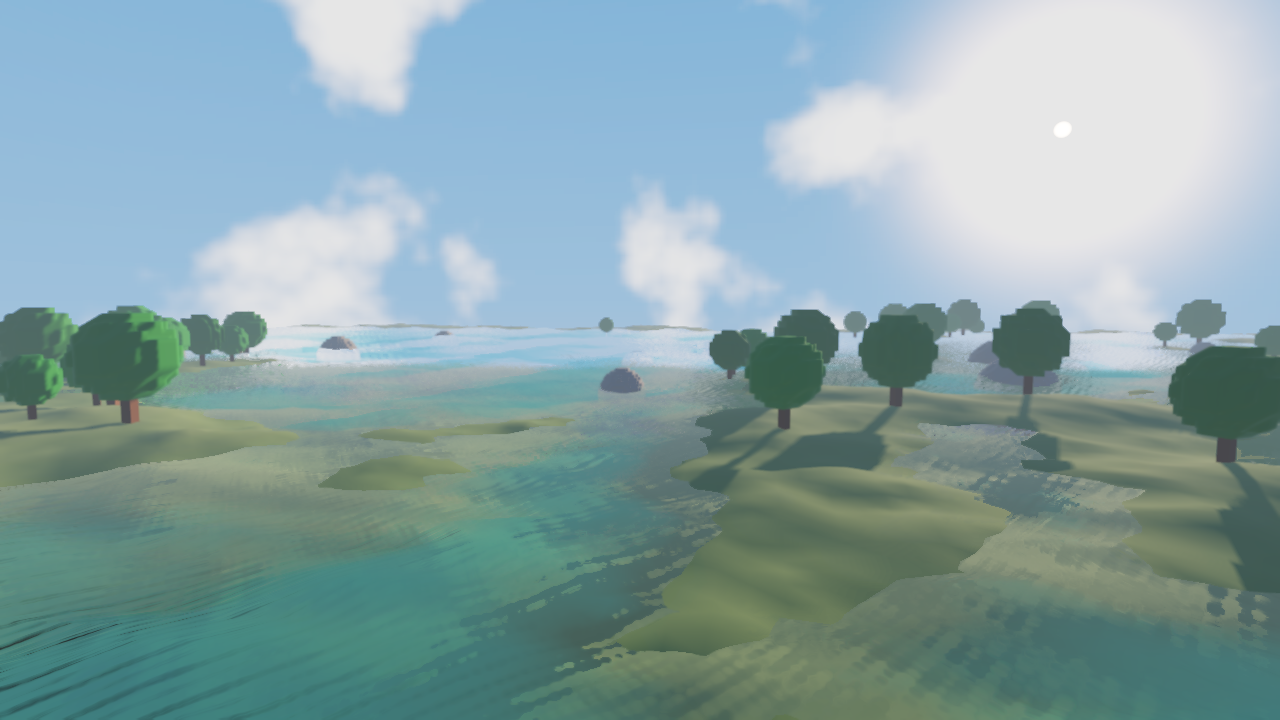
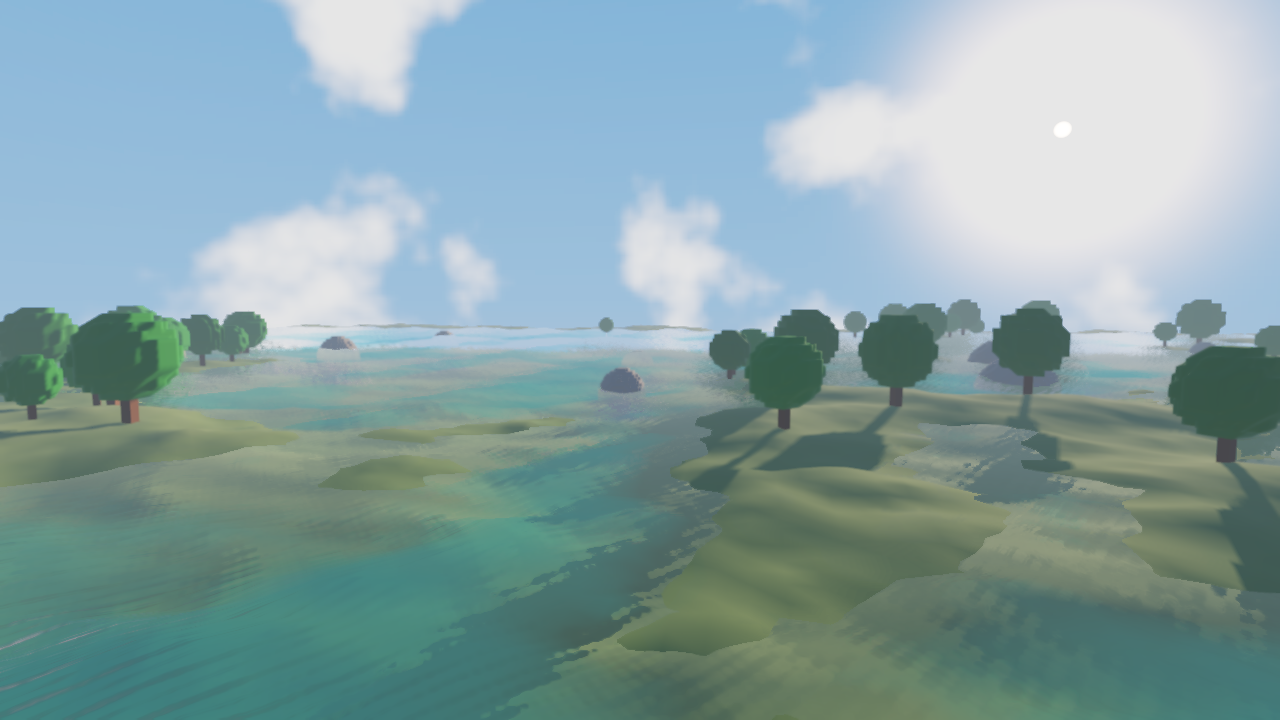
G13 water: sharper surface reflection + less foam
- kWaterFrag: add a crisp sky-cubemap mirror term on top of the half-res
  planar reflection: sample uSkyCube by the reflected ray (fallback: sky
  gradient) plus a sun disk, weighted by fresnel*0.5; lower reflection
  distortion defaults (0.12->0.05, refraction 0.06->0.035) so the
  mirror stays sharp
- drawWater: bind the sky cubemap on kTextureUnitSkyCube and set
  uSkyCube/uUseSkyCube/uSkyTop/uSkyBottom/uSunCos
- foam tuning: foamCrestStart 0.72->0.80, foamCrestSoftness 0.18->0.10,
  shoreFoamWidth 1.2->0.8, foamStrength 1.0->0.85 (example overrides removed)
- re-rendered docs/images/g13_water_*.png; tutorials + CHANGELOG updated

diff --git a/src/render/deferred_glsl.hpp b/src/render/deferred_glsl.hpp
@@ -1498,6 +1498,11 @@ in vec2 vLocalXZ;
 uniform sampler2D uSceneHdr; // unit 0: lighting output without the water (refraction)
 uniform sampler2D uGDepth;   // unit 1: G-buffer depth (occlusion + shore foam)
 uniform sampler2D uReflTex;  // unit 2: planar reflection target
+uniform samplerCube uSkyCube; // unit kTextureUnitSkyCube (16): sharp sky mirror on top
+uniform int uUseSkyCube;
+uniform vec3 uSkyTop;
+uniform vec3 uSkyBottom;
+uniform float uSunCos;
 uniform mat4 uInvViewProj;
 uniform mat4 uViewProj;      // camera viewProj (un-jittered): water fragment -> depth value
 uniform vec3 uCamPos;
@@ -1557,9 +1562,17 @@ void main() {
     float foam = clamp(max(shoreFoam, crestFoam) * uFoamStrength, 0.0, 1.0);
     // fresnel (dielectric)
     float fres = uFresnelF0 + (1.0 - uFresnelF0) * pow(1.0 - max(dot(N, V), 0.0), 5.0);
-    // planar reflection: the mirrored camera shares the projection, so screen uv maps 1:1
+    vec3 R = reflect(-V, N);
+    // surface reflection: planar reflection (mirrored camera shares the projection, so the
+    // screen uv maps 1:1, only distorted by the wave normal) ...
     vec2 reflUV = clamp(uv + N.xz * uDistortion, vec2(0.001), vec2(0.999));
     vec3 refl = texture(uReflTex, reflUV).rgb * uReflectionStrength;
+    // ... plus a sharp sky mirror sampled by the reflected ray (the planar target is
+    // half-res and distorted, the cubemap gives the crisp sky/sun reflection on top)
+    vec3 skyRefl = (uUseSkyCube == 1) ? texture(uSkyCube, R).rgb
+                                      : mix(uSkyBottom, uSkyTop, clamp(R.y, 0.0, 1.0));
+    skyRefl += uSunColor * smoothstep(uSunCos, 1.0, dot(R, uSunDir));
+    refl += skyRefl * clamp(fres, 0.0, 1.0) * 0.5;
     // refraction: scene HDR distorted by the normal, absorbed with depth, tinted by the body color
     vec2 refrUV = clamp(uv + N.xz * uRefractionDistortion, vec2(0.001), vec2(0.999));
     vec3 refr = texture(uSceneHdr, refrUV).rgb;
@@ -1568,7 +1581,6 @@ void main() {
     vec3 refrCol = refr * absorb + body * (1.0 - absorb) * 0.8;
     vec3 col = mix(refrCol, refl, clamp(fres, 0.0, 1.0));
     // sun glint on the wave normals
-    vec3 R = reflect(-V, N);
     col += uSunColor * pow(max(dot(R, uSunDir), 0.0), uGlintPower) * 2.0;
     // foam on top ("Gicht" at the crests + shore foam)
     col = mix(col, uFoamColor, foam);

diff --git a/include/fuhglgraphics/water/water_surface.hpp b/include/fuhglgraphics/water/water_surface.hpp
@@ -89,12 +89,12 @@ public:
     fuhgl::math::Vec3 foamColor{0.92f, 0.96f, 1.0f};         ///< crest/shore foam ("Gicht")
     float fresnelF0 = 0.02f;          ///< dielectric fresnel reflectance at normal incidence
     float reflectionStrength = 1.f;   ///< planar-reflection intensity (0 = off)
-    float distortion = 0.12f;         ///< reflection UV offset per unit of normal xz
-    float refractionDistortion = 0.06f; ///< refraction UV offset per unit of normal xz
-    float foamCrestStart = 0.72f;     ///< crest foam starts at this fraction of maxWaveHeight
-    float foamCrestSoftness = 0.18f;  ///< smooth width of the crest-foam ramp
-    float shoreFoamWidth = 1.2f;      ///< water depth (world units) over which shore foam fades in
-    float foamStrength = 1.f;         ///< overall foam intensity (0 = off)
+    float distortion = 0.05f;         ///< reflection UV offset per unit of normal xz (lower = sharper mirror)
+    float refractionDistortion = 0.035f; ///< refraction UV offset per unit of normal xz
+    float foamCrestStart = 0.80f;     ///< crest foam starts at this fraction of maxWaveHeight
+    float foamCrestSoftness = 0.10f;  ///< smooth width of the crest-foam ramp
+    float shoreFoamWidth = 0.8f;      ///< water depth (world units) over which shore foam fades in
+    float foamStrength = 0.85f;       ///< overall foam intensity (0 = off)
     float glintPower = 512.f;         ///< sun-glint specular exponent
     float detailNormalScale = 2.2f;   ///< strength of the procedural ripple detail normal
 

diff --git a/src/render/deferred_renderer.cpp b/src/render/deferred_renderer.cpp
@@ -941,6 +941,9 @@ void DeferredRenderer::drawWater(fuhgl::render::RenderGraph::PassContext& ctx) {
     const water::WaterSurface& w = *curWater_;
     fuhgl::gl::activeTexture(fuhgl::gl::GL_TEXTURE0 + 2);
     f.glBindTexture(fuhgl::gl::GL_TEXTURE_2D, im.reflColor.id());
+    // sky cubemap for the sharp sky-mirror term in the water shader (unit kTextureUnitSkyCube)
+    fuhgl::gl::activeTexture(fuhgl::gl::GL_TEXTURE0 + kTextureUnitSkyCube);
+    f.glBindTexture(fuhgl::gl::GL_TEXTURE_CUBE_MAP, skyCube_ ? skyCube_->id() : im.dummyCube.id());
     fuhgl::gl::disable(fuhgl::gl::Cap::DepthTest);
     fuhgl::gl::disable(fuhgl::gl::Cap::Blend);
     fuhgl::gl::enable(fuhgl::gl::Cap::CullFace);
@@ -951,6 +954,11 @@ void DeferredRenderer::drawWater(fuhgl::render::RenderGraph::PassContext& ctx) {
     p.setUniform(p.uniformLocation("uSceneHdr"), 0);
     p.setUniform(p.uniformLocation("uGDepth"), 1);
     p.setUniform(p.uniformLocation("uReflTex"), 2);
+    p.setUniform(p.uniformLocation("uSkyCube"), kTextureUnitSkyCube);
+    p.setUniform(p.uniformLocation("uUseSkyCube"), skyCube_ ? 1 : 0);
+    p.setUniform("uSkyTop", skyTop);
+    p.setUniform("uSkyBottom", skyBottom);
+    p.setUniform("uSunCos", s.sunCos);
     p.setUniform("uModel", waterModel_);
     // one uViewProj for VS (position) and FS (depth test): the G-buffer was rendered with
     // the same jittered viewProj, so the depth comparison uses the same quantization

diff --git a/examples/water_screenshot/main.cpp b/examples/water_screenshot/main.cpp
@@ -228,8 +228,6 @@ int main(int argc, char** argv) {
     wc.surface.time = 0.f;
     wc.surface.reflectionStrength = args.reflection ? 0.9f : 0.f;
     wc.surface.foamStrength = args.foam ? 1.f : 0.f;
-    wc.surface.shoreFoamWidth = 1.2f;
-    wc.surface.foamCrestStart = 0.55f;
     wc.surface.deepColor = {0.004f, 0.05f, 0.11f};
     wc.surface.shallowColor = {0.06f, 0.30f, 0.38f};
 

diff --git a/CHANGELOG.md b/CHANGELOG.md
@@ -341,6 +341,15 @@ All notable changes to FuhGlGraphics are documented here. The format follows
   Tutorial: `docs/en/tutorials/g13_water.md` + German translation. Requirement entry G13
   in [docs/REQUIREMENTS.md](docs/REQUIREMENTS.md).
 
+### Changed
+
+- **G13 water tuning**: sharper surface reflection — the water shader now adds a crisp
+  sky-cubemap mirror term (sampled by the reflected ray, plus the sun disk, weighted by the
+  fresnel) on top of the half-res planar reflection, and the reflection distortion defaults
+  dropped (`distortion` 0.12 → 0.05, `refractionDistortion` 0.06 → 0.035). Less foam:
+  `foamCrestStart` 0.72 → 0.80, `foamCrestSoftness` 0.18 → 0.10, `shoreFoamWidth` 1.2 → 0.8,
+  `foamStrength` 1.0 → 0.85. Reference images `docs/images/g13_water_*.png` re-rendered.
+
 ### Planned
 
 - **G12 — asset creator Qt tool** — design agreed, implementation in phases after review:

diff --git a/docs/de/tutorials/g13_water.md b/docs/de/tutorials/g13_water.md
@@ -51,8 +51,8 @@ wc.surface.create(160, 220.f);                        // GL-Kontext nötig
 wc.surface.setDefaultWaves();                         // 4 Gerstner-Wellen; oder wc.surface.waves tunen
 wc.surface.deepColor    = {0.01f, 0.08f, 0.13f};
 wc.surface.shallowColor = {0.08f, 0.35f, 0.40f};
-wc.surface.foamCrestStart = 0.55f;                    // Kamm-Schaum („Gicht") ab hier
-wc.surface.shoreFoamWidth = 2.5f;                     // Wassertiefe in Welt-Einheiten
+wc.surface.foamCrestStart = 0.80f;                    // Kamm-Schaum („Gicht") nur oberhalb 80% der max. Wellenhöhe
+wc.surface.shoreFoamWidth = 0.8f;                     // Wassertiefe in Welt-Einheiten (schmaler Ufersaum)
 
 scene.root().effects.enable(fuhglgraphics::render::Effect::Water);
 // pro Frame:

diff --git a/docs/en/tutorials/g13_water.md b/docs/en/tutorials/g13_water.md
@@ -49,8 +49,8 @@ wc.surface.create(160, 220.f);                        // GL context required
 wc.surface.setDefaultWaves();                         // 4 Gerstner waves; or tune wc.surface.waves
 wc.surface.deepColor    = {0.01f, 0.08f, 0.13f};
 wc.surface.shallowColor = {0.08f, 0.35f, 0.40f};
-wc.surface.foamCrestStart = 0.55f;                    // crest foam ("Gicht") from here on
-wc.surface.shoreFoamWidth = 2.5f;                     // world units of water depth
+wc.surface.foamCrestStart = 0.80f;                    // crest foam ("Gicht") only above 80% of the max wave height
+wc.surface.shoreFoamWidth = 0.8f;                     // world units of water depth (thin shore band)
 
 scene.root().effects.enable(fuhglgraphics::render::Effect::Water);
 // per frame:
